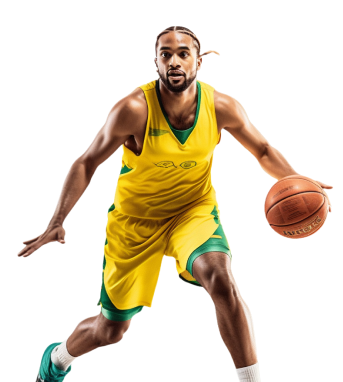
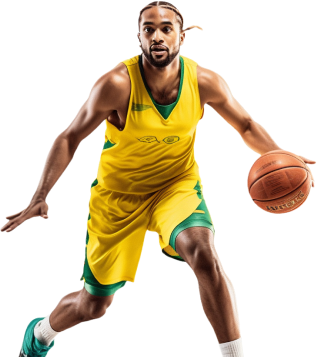
Feature box fix

diff --git a/src/components/Feature/Feature.jsx b/src/components/Feature/Feature.jsx
@@ -2,6 +2,10 @@ import './Feature.css'
 import FeatureOne from '../../assets/fearure1.png'
 import FeatureTwo from '../../assets/fearure2.png'
 import FeatureThree from '../../assets/fearure3.png'
+import featureBg1 from '../../assets/fearurebg1.png'
+import featureBg2 from '../../assets/fearurebg2.png'
+import featureBg3 from '../../assets/fearurebg3.png'
+
 
 const Feature = () => {
     return (
@@ -23,7 +27,7 @@ const Feature = () => {
                 <div className="featureBottom">
                     <div className="row gy-3 justify-content-center">
                         <div className="col-12 col-md-6 col-xl-4">
-                            <div className="featureBoxStart h-100">
+                            <div className="featureBoxInner h-100" style={{ background: `url(${featureBg1})` }}>
                                 <div className="row align-items-center p-0 pe-0 ">
                                     <div className="col-6">
                                         <h4 className="mb-1">Confidentiality</h4>
@@ -33,13 +37,13 @@ const Feature = () => {
                                             information was never easier.</p>
                                     </div>
                                     <div className="col-6 feature_card" >
-                                        <img className="img-fluid" src={FeatureOne} alt="img" />
+                                        <img className="" src={FeatureOne} alt="img" />
                                     </div>
                                 </div>
                             </div>
                         </div>
                         <div className="col-12 col-md-6 col-xl-4">
-                            <div className="featureBoxMiddle h-100">
+                            <div className="featureBoxInner h-100" style={{ background: `url(${featureBg2})` }}>
                                 <div className="row align-items-center p-0">
                                     <div className="col-6">
                                         <h4 className="mb-1">Stay in Touch</h4>
@@ -51,15 +55,13 @@ const Feature = () => {
                                         </p>
                                     </div>
                                     <div className="col-6 feature_card">
-                                        <div>
-                                            <img className="img-fluid" src={FeatureTwo} alt="img" />
-                                        </div>
+                                            <img className="" src={FeatureTwo} alt="img" />
                                     </div>
                                 </div>
                             </div>
                         </div>
                         <div className="col-12 col-md-6 col-xl-4 ">
-                            <div className="featureBoxEnd h-100">
+                            <div className="featureBoxInner h-100" style={{ background: `url(${featureBg3})` }}>
                                 <div className="row align-items-center p-0">
                                     <div className="col-6">
                                         <h4 className="mb-1">Confidentiality</h4>
@@ -70,7 +72,7 @@ const Feature = () => {
                                             information was never easier.</p>
                                     </div>
                                     <div className="col-6 feature_card">
-                                        <img className="img-fluid" src={FeatureThree} alt="img" />
+                                        <img className="" src={FeatureThree} alt="img" />
                                     </div>
                                 </div>
                             </div>

diff --git a/src/components/Feature/Feature.css b/src/components/Feature/Feature.css
@@ -26,36 +26,84 @@
     font-size: 18px;
     font-weight: 500;
     line-height: 24px;
+    margin-bottom: 50px;
 }
 
-.feature .featureBoxStart {
-    background: url("../../assets/fearurebg1.png");
-    background-repeat: no-repeat;
-    background-position: center;
-    background-size: cover;
-    padding: 20px 0 0 50px;
+.feature .featureBoxInner {
+    background-repeat: no-repeat !important;
+    background-position: center !important;
+    background-size: cover !important;
+    padding: 80px 0 0 50px;
+    position: relative;
 }
 
-.feature .featureBoxMiddle {
-    background: url("../../assets/fearurebg2.png");
-    background-repeat: no-repeat;
-    background-position: center;
-    background-size: cover;
-    padding: 48px 0 0 50px;
+.feature .featureBoxInner img {
+    position: absolute;
+    bottom: 0;
+    right: -14px;
 }
 
-.feature .featureBoxMiddle img{
-    margin-top: 33px;
-} 
+@media (max-width: 990px) {
+    .feature .featureBoxInner img {
+        height: 166px !important;
+    }
 
-.feature .featureBoxEnd {
-    background: url("../../assets/fearurebg2.png");
-    background-repeat: no-repeat;
-    background-position: center;
-    background-size: cover;
-    padding: 20px 0 0 50px;
-}
+    /* some features */
+  .feature_card {
+    padding-right: 0px !important;
+  }
 
-.feature .featureBoxEnd img{
-    margin-top: 34px;
+  .feature .featureTop h2 {
+    font-size: 24px !important;
+    font-style: normal;
+    font-weight: 700 !important;
+    line-height: 30px !important;
+    /* 125% */
+    letter-spacing: -0.24px !important;
+    width: 192px;
+    margin: auto;
+  }
+
+  .feature .featureTop p {
+    font-size: 10px !important;
+    width: 257px;
+    margin: auto;
+  }
+
+  .featureTop {
+    text-align: center;
+  }
+
+  .feature_mobile {
+    display: none !important;
+  }
+
+  .feature .featureBottom h4 {
+    font-size: 17px !important;
+  }
+
+  .feature .featureBottom p {
+    font-size: 9.5px !important;
+    font-weight: 500 !important;
+    line-height: 12px !important;
+  }
+
+  .feature {
+    padding: 0 50px !important;
+  }
+
+  .feature .featureBoxInner img{
+    height: 180px !important;
+    right: -6px;
+  }
+
+  .feature .featureBoxInner{
+    padding: 50px 0 0 26px !important;
+  }
+
+  .feature .featureBottom p{
+    margin-bottom: 38px !important;
+  }
+
+  /* some features */
 }

diff --git a/src/index.css b/src/index.css
@@ -241,7 +241,7 @@ a {
   }
 
 
-  .feature .featureBoxStart,
+  /* .feature .featureBoxStart,
   .feature .featureBoxMiddle,
   .feature .featureBoxEnd {
     padding: 20px 10px 30px 40px !important;
@@ -249,7 +249,7 @@ a {
 
   .feature .featureBoxEnd img, .feature .featureBoxMiddle img{
     margin-top: 0 !important;
-  }
+  } */
 
   .right_content_wrapper {
     padding-bottom: 50px !important;
@@ -309,51 +309,7 @@ a {
 
   /* banner */
 
-  /* some features */
-  .feature_card {
-    padding-right: 0px !important;
-  }
-
-  .feature .featureTop h2 {
-    font-size: 24px !important;
-    font-style: normal;
-    font-weight: 700 !important;
-    line-height: 30px !important;
-    /* 125% */
-    letter-spacing: -0.24px !important;
-    width: 192px;
-    margin: auto;
-  }
-
-  .feature .featureTop p {
-    font-size: 10px !important;
-    width: 257px;
-    margin: auto;
-  }
-
-  .featureTop {
-    text-align: center;
-  }
-
-  .feature_mobile {
-    display: none !important;
-  }
-
-  .feature .featureBottom h4 {
-    font-size: 17px !important;
-  }
-
-  .feature .featureBottom p {
-    font-size: 9.5px !important;
-    font-weight: 500 !important;
-    line-height: 12px !important;
-  }
-
-  .feature {
-    padding: 0 50px !important;
-  }
-
-  /* some features */
+  
 
   /* work */
   .workBg h3 {
@@ -681,6 +637,10 @@ a {
 
   .mobileTopbar {
     display: block !important;
+  }
+
+  .feature .featureBoxInner img{
+    height: 300px;
   }
 }
 
